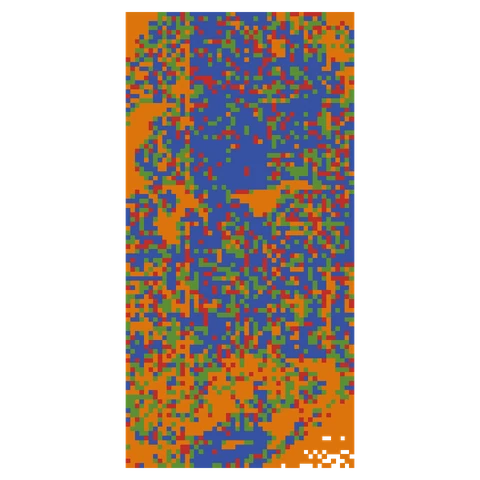
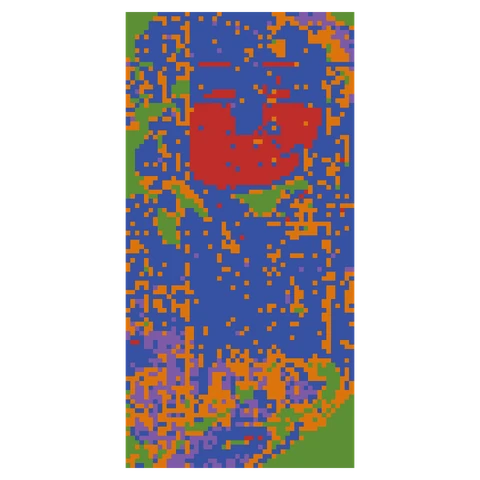
atlas: all nine SpaceA sections (all sequencing runs), spacea_e135_c6 with its three runs
Eight new atlas ids (spacea_e115_l1 ... spacea_e145_f6) and spacea_e135_c6 rebuilt from all three of its runs
(it held run 1, ~3 % of the reads): every section of the five libraries, 17 runs, built by the SpaceA recipe
(process per run, clusters per section from the reads of its DPM tag in every run of the library, store), the atlas
copies without results['hic'].  Per section, spots / clusters / after the authors' filter: L1 9,216 / 23.8 M / 4.0 M,
L2 9,216 / 37.0 M / 6.2 M, L5 9,826 / 52.0 M / 5.8 M, L6 9,883 / 50.1 M / 5.1 M, C1 9,918 / 14.3 M / 2.5 M,
C4 9,771 / 9.0 M / 1.9 M, C6 5,000 / 8.2 M / 1.4 M, F5 9,982 / 21.6 M / 3.2 M, F6 9,996 / 28.1 M / 4.2 M.
Checks: every section's fragments-per-spot grid and contact clusters show the embryo; C6's three runs give the
same spot pattern (correlation of log reads per spot 0.98).

datasets.json entries, thumbnails, recipes README (the SpaceA section says the derived stores are public).

Claude-Session: https://claude.ai/code/session_01JhzxLEq6btYyRTPTQ7rXjB

diff --git a/apps/atlas/recipes/README.md b/apps/atlas/recipes/README.md
@@ -466,7 +466,8 @@ datasets (`stevens2017`, `su2020_chr21`, `rao2014_imr90_chr21`) and the atlas (`
 
 - **Source**: Ma et al. 2026, *Developmental Cell* (doi:10.1016/j.devcel.2026.09.004), SpaceA; Genome Sequence
   Archive (CNCB-NGDC) [CRA038845](https://ngdc.cncb.ac.cn/gsa/browse/CRA038845), **academic use** under the GSA's
-  terms (not re-hosted; not in the public atlas).  Analysis code: github.com/YuetongXU/SpaceA-Paper (commit
+  terms (the fastq are not re-hosted; the derived section stores are in the public atlas, a decision of the
+  maintainers: C6 run 1 since 2026-10-27, all nine sections since 2026-10-30).  Analysis code: github.com/YuetongXU/SpaceA-Paper (commit
   `c1e1753`, barcode configs, the Snakefile, the DPM split and the cluster filter), the Guttman lab's
   github.com/GuttmanLab/sprite-pipeline (commit `5e11a58`, BarcodeIdentification and the cluster scripts).
 - **Files**: paired fastq per run, `https://download.cncb.ac.cn/gsa6/CRA038845/<run>/<run>_r{1,2}.fastq.gz`, md5 in
@@ -494,6 +495,11 @@ datasets (`stevens2017`, `su2020_chr21`, `rao2014_imr90_chr21`) and the atlas (`
   duplicates → 1,407,822 clusters; store 192 MB, 4,974 spots (median 994 fragments, 2,475 spots with ≥ 1,000).
   Every cluster is kept as written; the authors' filters (cluster size 2–1,000, chromosome share, cis share, spot
   QC) are analysis choices.
+- **All runs** (2026-10-30), per section: spots / clusters / after the authors' filter (`clusters["spacea_filtered"]`):
+  E11.5 L1 9,216 / 23.8 M / 4.0 M; L2 9,216 / 37.0 M / 6.2 M; E12.5 L5 9,826 / 52.0 M / 5.8 M; L6 9,883 / 50.1 M /
+  5.1 M; E13.5 C1 9,918 / 14.3 M / 2.5 M; C4 9,771 / 9.0 M / 1.9 M; C6 5,000 (a 50 × 100 grid) / 8.2 M / 1.4 M;
+  E14.5 F5 9,982 / 21.6 M / 3.2 M; F6 9,996 / 28.1 M / 4.2 M.  Atlas ids `spacea_e115_l1` ... `spacea_e145_f6`
+  (the atlas copies without `results['hic']`, the scHiCluster features: read at every remote open, 0.3 GB).
 - **Used by**: the per-spot check of `ChromData.clusters` (U-Chrom PR #153: `get_cell`, `region` with size and
   spot filters, backed and over HTTP, equal to memory).
 
@@ -615,7 +621,7 @@ brain cells).
 | `liu2025_mop`, `liu2025_mecp2` | 813 / 1,309 | `liu2025_mop_4dn/liu2025_mop_4dn.chromdata.zarr` (since 2026-10-30: the four MOp experiments; before, one, by `build_liu2025_mop.py`), `liu2025_mecp2/liu2025_mecp2.chromdata.zarr` | loaders `liu2025_mop_4dn`, `liu2025_mecp2`; `derive_embeddings.py --rna-after neuron_identity` / `--rna-after Mecp2_genotype` | the same names |
 | `tan2021_cortex`, `nagano2017_dip_serum` | 3,064 / 896 | `<name>/<name>.chromdata.zarr` | loaders of the same names, `derive_embeddings.py --hic per_cell` | `tan2021_cortex`, `nagano2017_dip_serum` |
 | `nagano2017_hap` | 889 | `nagano2017_hap/nagano2017_hap.chromdata.zarr` | `build_nagano2017_hap.py`, `derive_embeddings.py --hic per_cell --leiden` | `nagano2017_hap` |
-| `spacea_e135_c6` | 274 | SpaceA C6 store (run 1), without `results['hic']` | the SpaceA recipe (PR #155) | — |
+| `spacea_e115_l1`, `spacea_e115_l2`, `spacea_e125_l5`, `spacea_e125_l6`, `spacea_e135_c1`, `spacea_e135_c4`, `spacea_e135_c6`, `spacea_e145_f5`, `spacea_e145_f6` | 4,953 / 7,075 / 5,406 / 4,409 / 4,638 / 3,093 / 2,580 / 2,811 / 4,538 | `spacea_ma2026/work/<sample>/spacea_<sample>.chromdata.zarr` (all runs; `spacea_e135_c6` held run 1 only until 2026-10-30), without `results['hic']` | the SpaceA recipe (`spacea_ma2026/slurm/`, `build_store.sbatch <sample>`) | `ma2026_spacea_<library>` |
 | `takei2025_e14`, `takei2025_nmumg` | 4,421 / 1,883 | `takei2025_e14/takei2025_e14_rep1.chromdata.zarr`, `takei2025_nmumg/takei2025_nmumg.chromdata.zarr` | `build_takei2025_cerebellum.py --sample E14_rep1`, `... --sample NMuMG` | `takei2025_e14`, `takei2025_nmumg` |
 | `liu2025_kras`, `cheng2025_perturb`, `chen2023_sox9`, `patterson2023_chrx`, `sawh2020_celegans`, `gutnik2024_celegans`, `messina2023_him`, `le2024_se`, `fujimori2026_hek293t`, `fujimori2026_k562`, `fujimori2026_mesc`, `tastemel2025_sox2`, `jay2025_thymocytes`, `jensen2025_cargo`, `llimos2022_axin2` | 312 / 55 / 19 / 8 / 2 / 3 / 5 / 169 / 13 / 3 / 9 / 41 / 7 / 6 / 2 | `<name>/<name>.chromdata.zarr` | loaders of the same names (see *4DN chromatin-tracing studies*) | the same names |
 | `tan2018_gm12878` | 394 | `tan2018_gm12878/tan2018_gm12878.chromdata.zarr` | loader `tan2018_gm12878`, `derive_embeddings.py --hic per_cell` | `tan2018_gm12878` |
